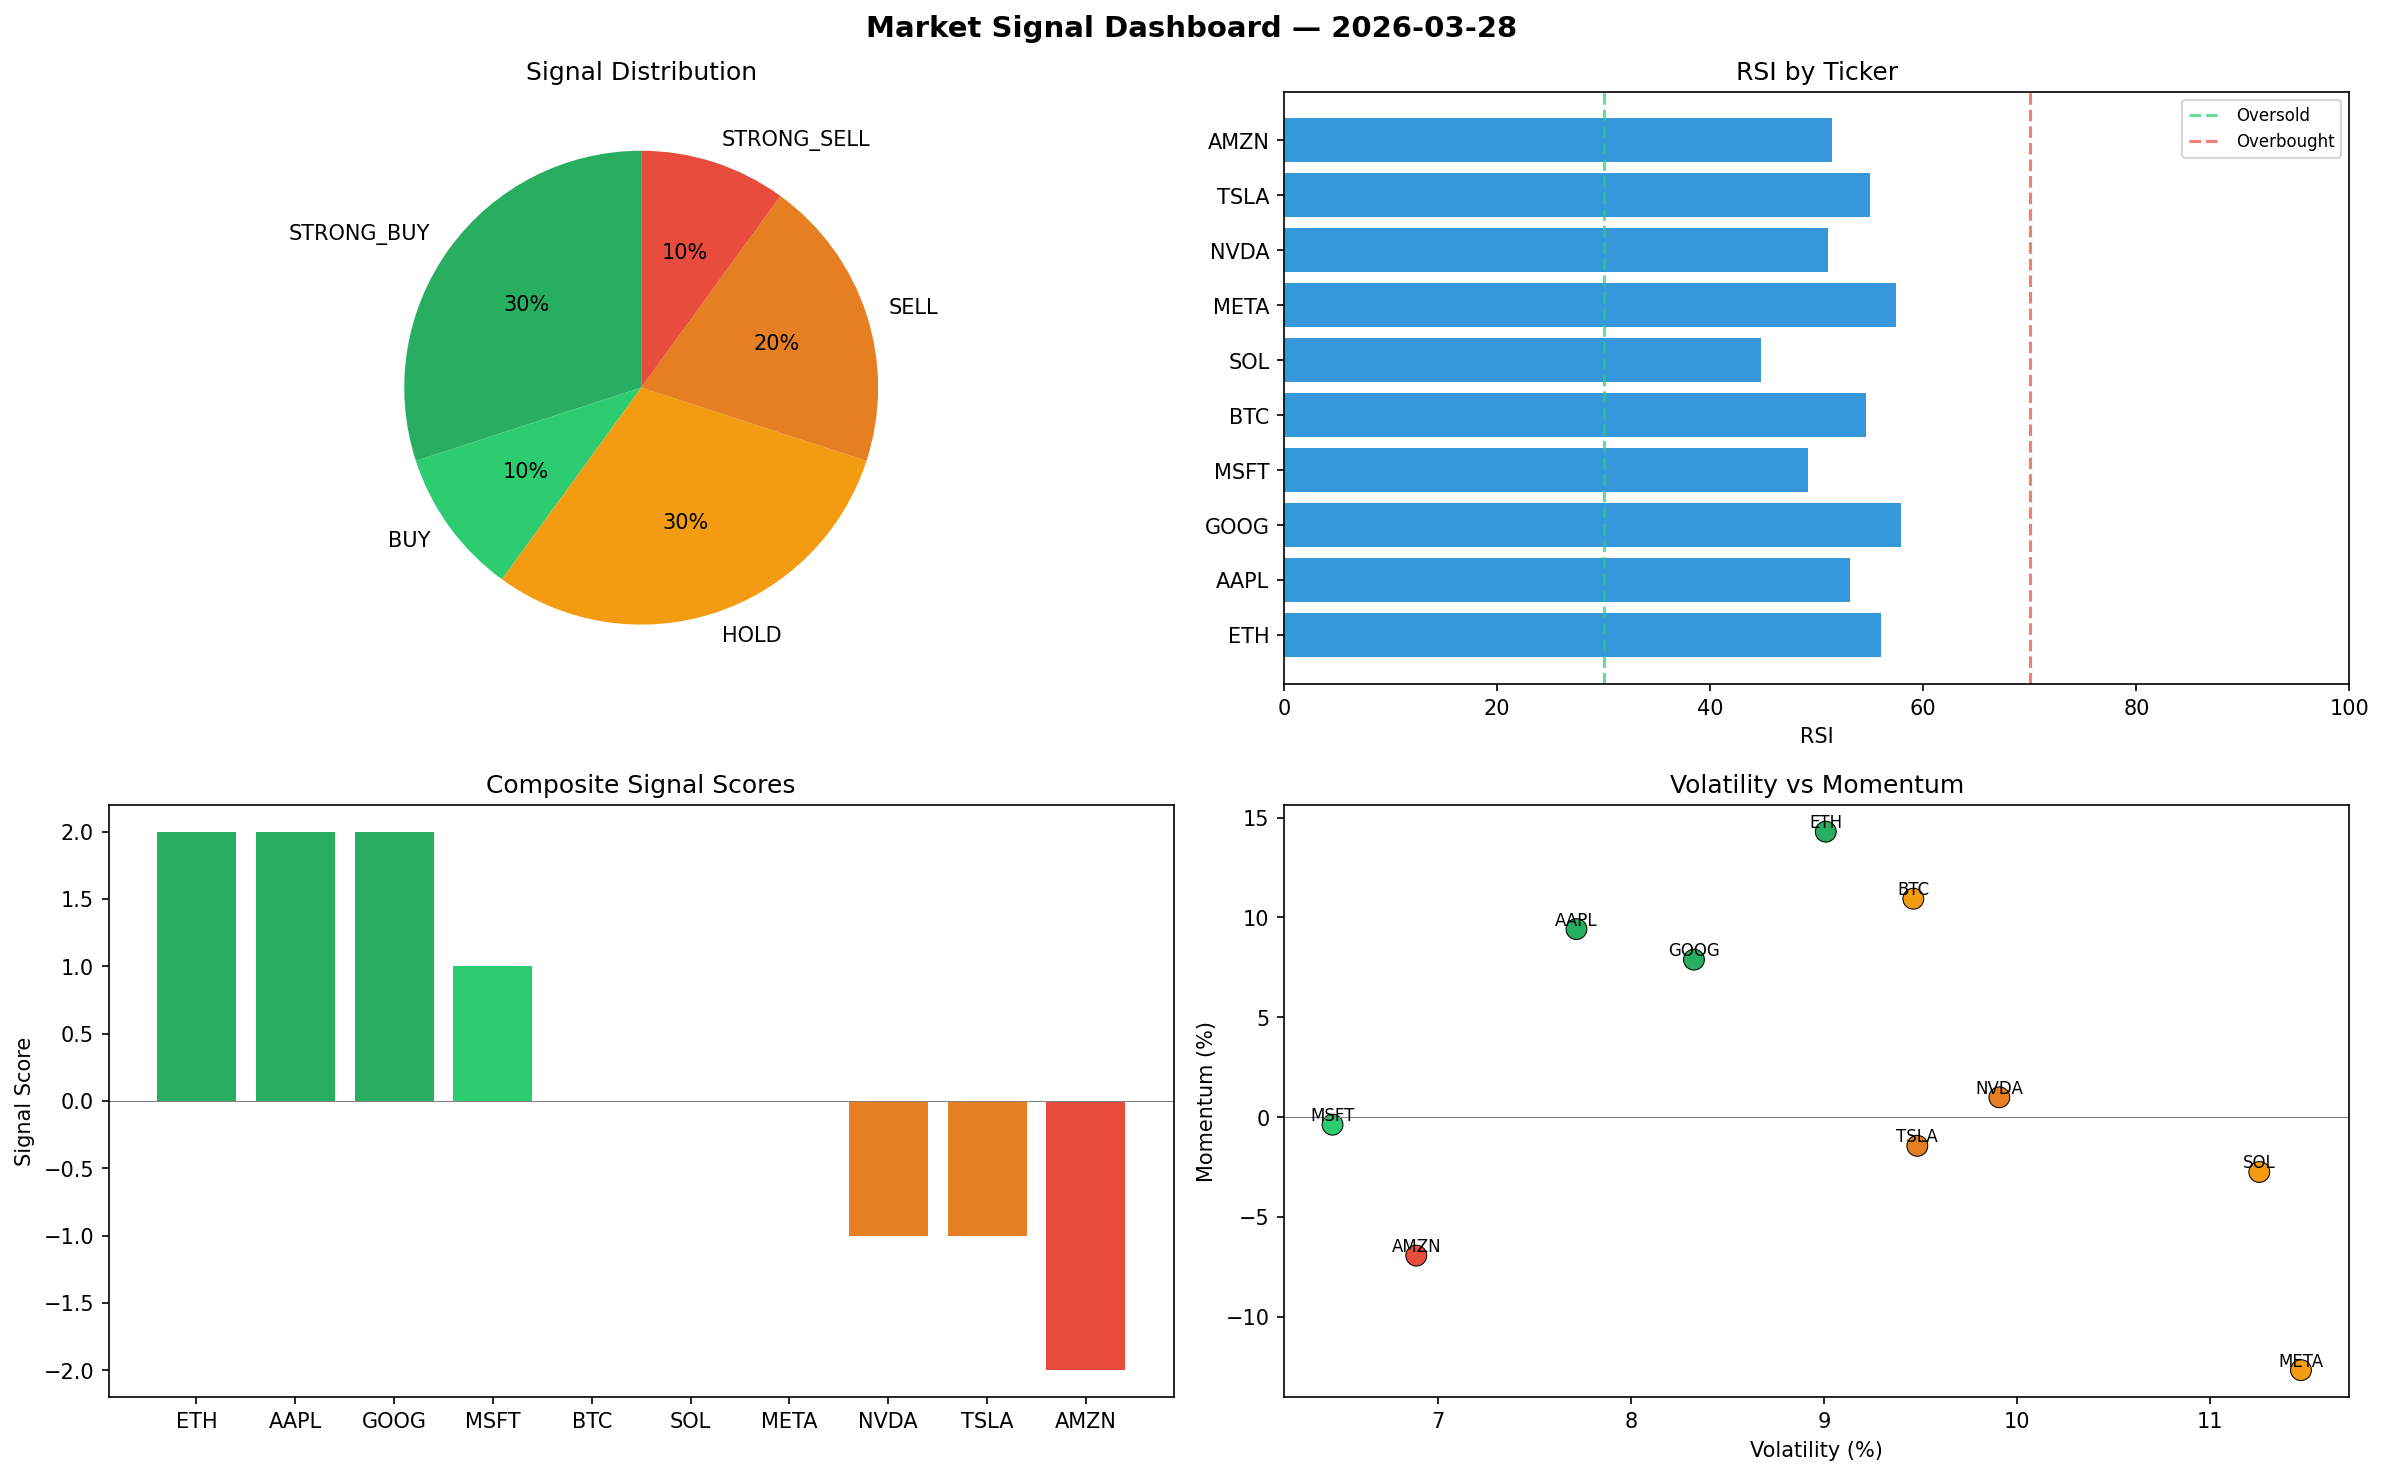
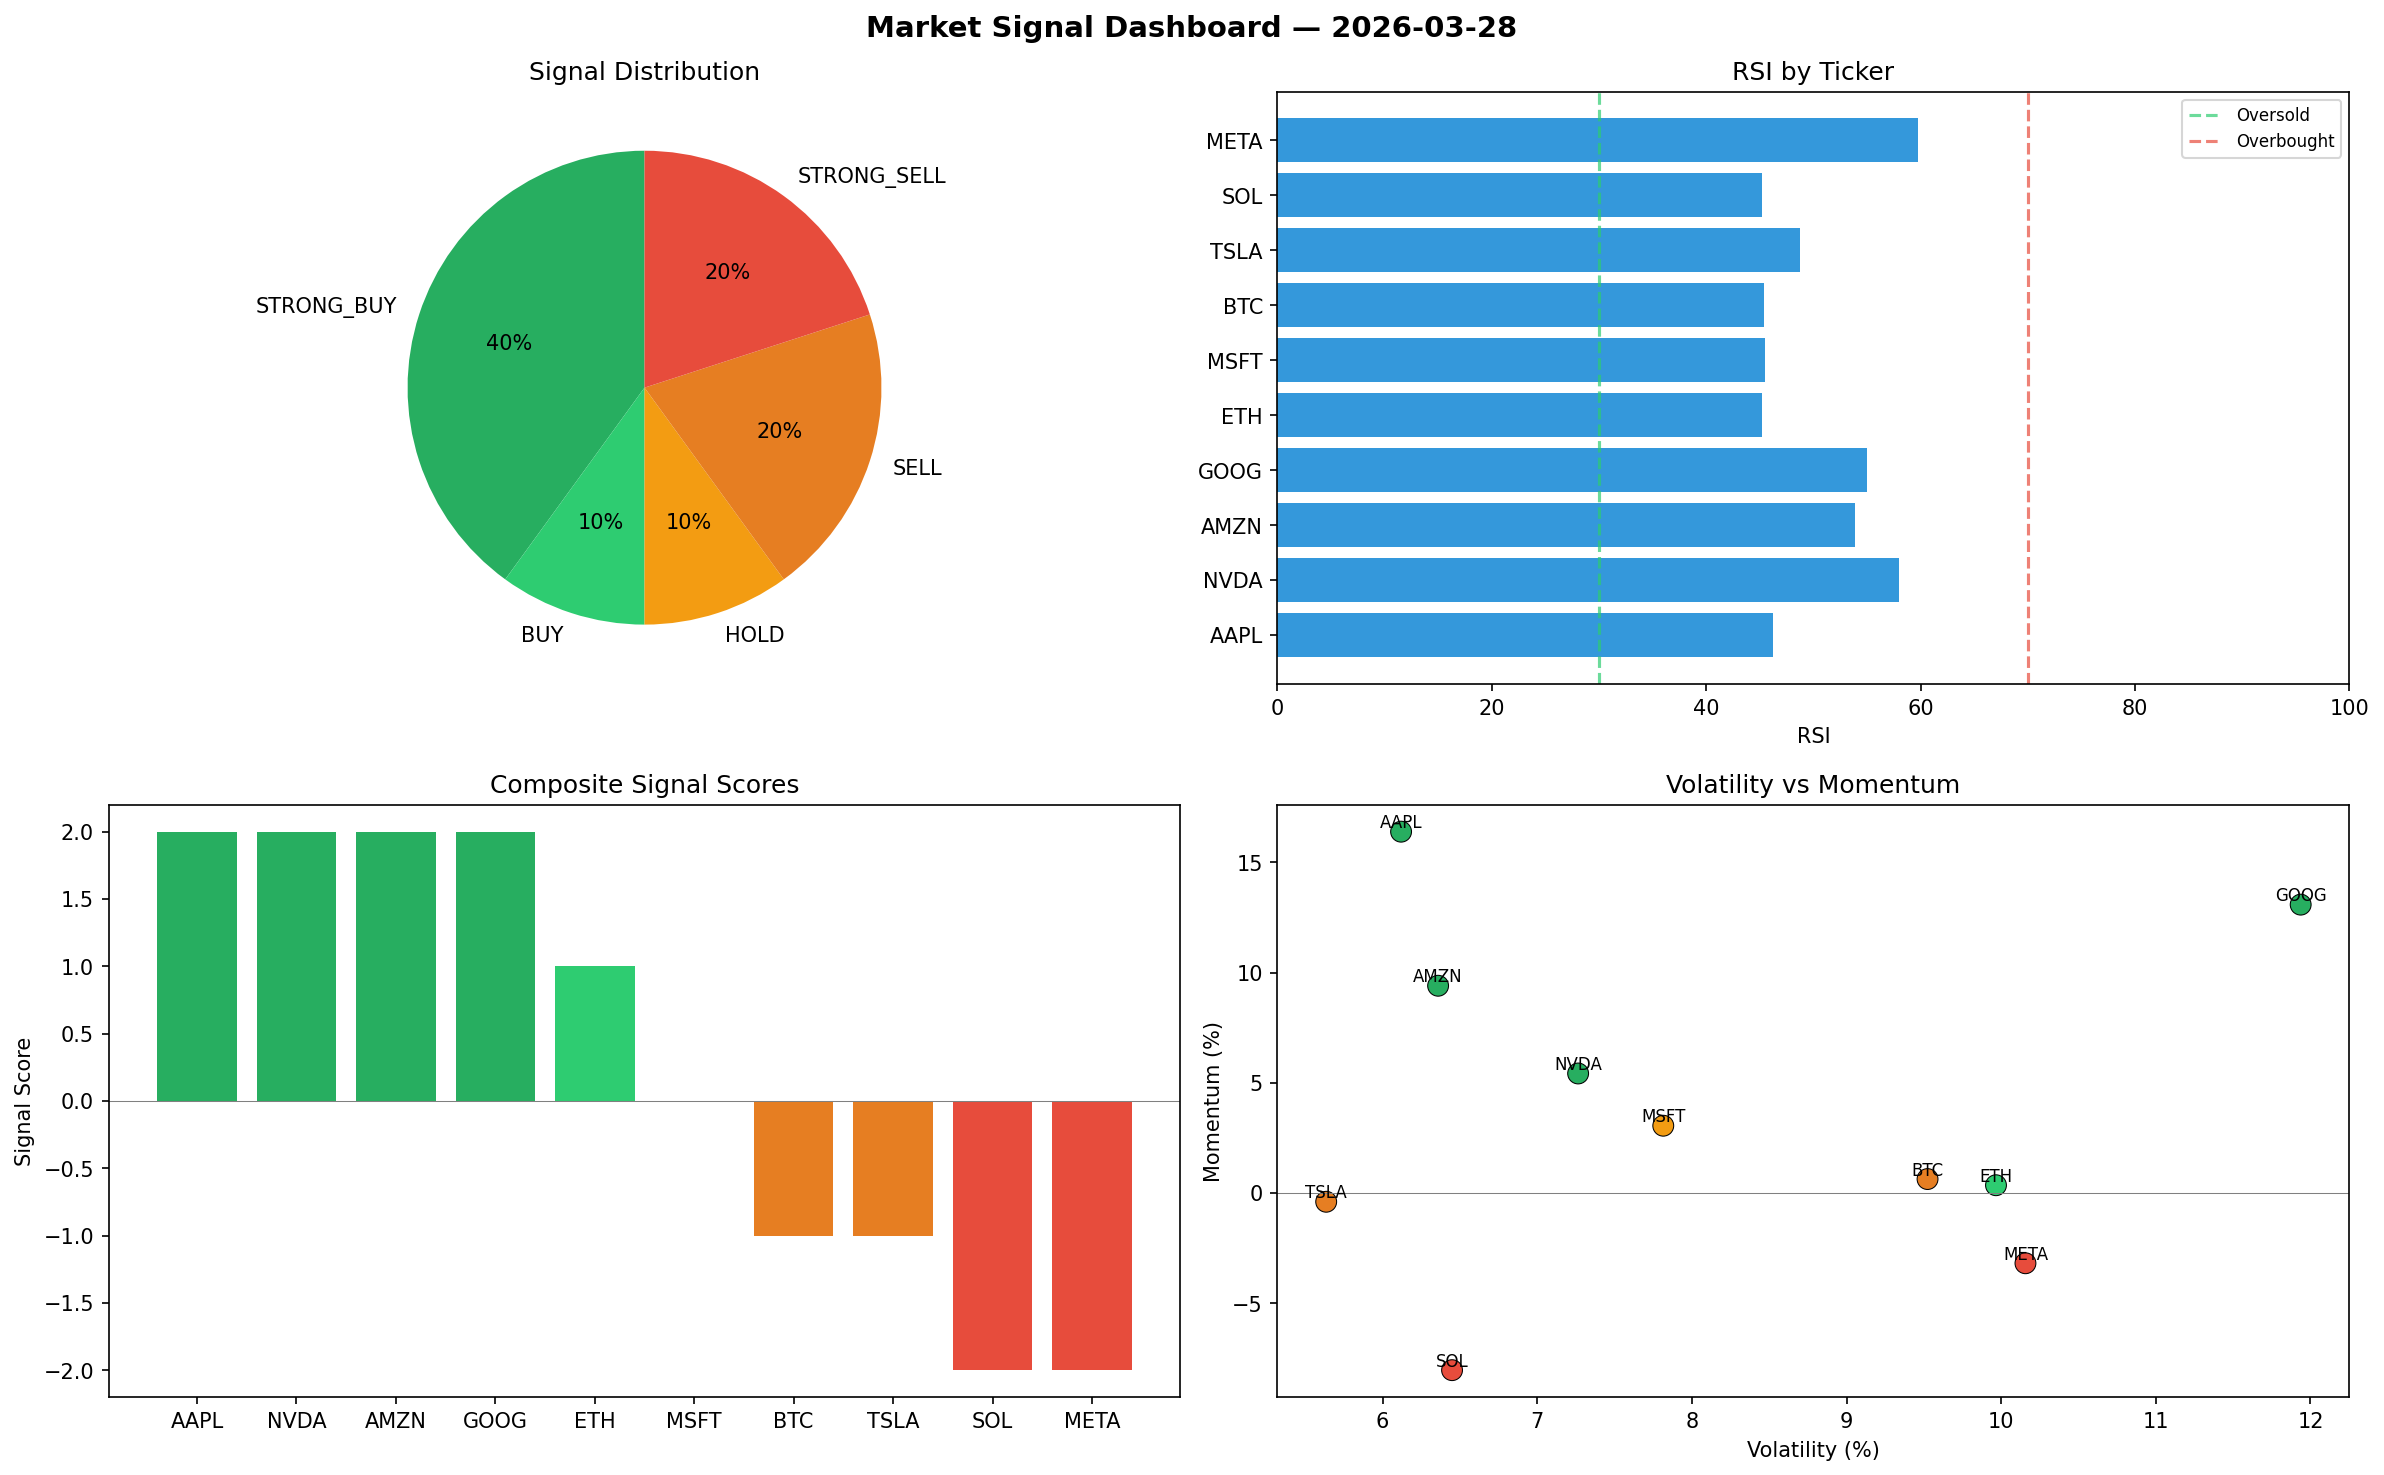
automated-bots: market signals 2026-03-28T09:02

diff --git a/logs/2026-03-28.md b/logs/2026-03-28.md
@@ -1,6 +1,6 @@
 # Market Signal Report — 2026-03-28
 
-**Run ID:** `4e4dc68acc` | **Buy:** 4 | **Sell:** 3 | **Hold:** 3
+**Run ID:** `d121d8278a` | **Buy:** 5 | **Sell:** 4 | **Hold:** 1
 
 ![Dashboard](2026-03-28_dashboard.png)
 
@@ -8,28 +8,28 @@
 
 | Ticker | Price | Signal | Score | RSI | Momentum | Confidence |
 |--------|-------|--------|-------|-----|----------|------------|
-| ETH | $1452.72 | **STRONG_BUY** | 2 | 56.05 | 0.143 | 0.5 |
-| AAPL | $4169.76 | **STRONG_BUY** | 2 | 53.13 | 0.0942 | 0.5 |
-| GOOG | $4146.51 | **STRONG_BUY** | 2 | 57.88 | 0.0789 | 0.5 |
-| MSFT | $3678.61 | **BUY** | 1 | 49.18 | -0.0038 | 0.25 |
-| BTC | $1741.8 | **HOLD** | 0 | 54.59 | 0.1094 | 0.0 |
-| SOL | $2121.45 | **HOLD** | 0 | 44.8 | -0.0275 | 0.0 |
-| META | $2141.77 | **HOLD** | 0 | 57.48 | -0.1268 | 0.0 |
-| NVDA | $470.79 | **SELL** | -1 | 51.07 | 0.0099 | 0.25 |
-| TSLA | $3802.78 | **SELL** | -1 | 54.98 | -0.0144 | 0.25 |
-| AMZN | $3990.1 | **STRONG_SELL** | -2 | 51.42 | -0.0694 | 0.5 |
+| AAPL | $3118.21 | **STRONG_BUY** | 2 | 46.27 | 0.1639 | 0.5 |
+| NVDA | $2809.66 | **STRONG_BUY** | 2 | 57.96 | 0.0542 | 0.5 |
+| AMZN | $1819.05 | **STRONG_BUY** | 2 | 53.92 | 0.094 | 0.5 |
+| GOOG | $4208.46 | **STRONG_BUY** | 2 | 55.03 | 0.1308 | 0.5 |
+| ETH | $2444.73 | **BUY** | 1 | 45.22 | 0.0035 | 0.25 |
+| MSFT | $1629.32 | **HOLD** | 0 | 45.45 | 0.0305 | 0.0 |
+| BTC | $3872.78 | **SELL** | -1 | 45.35 | 0.0063 | 0.25 |
+| TSLA | $1651.88 | **SELL** | -1 | 48.78 | -0.004 | 0.25 |
+| SOL | $2976.78 | **STRONG_SELL** | -2 | 45.16 | -0.0804 | 0.5 |
+| META | $258.79 | **STRONG_SELL** | -2 | 59.75 | -0.0319 | 0.5 |
 
 ## Delta vs Yesterday
 
 | Ticker | Today | Yesterday | Price Change | Signal Changed |
 |--------|-------|-----------|-------------|----------------|
-| ETH | STRONG_BUY | STRONG_SELL | 📈 156.84% | ⚠ YES |
-| AAPL | STRONG_BUY | STRONG_BUY | 📈 942.47% | — |
-| GOOG | STRONG_BUY | STRONG_BUY | 📈 68.76% | — |
-| MSFT | BUY | STRONG_BUY | 📈 48.48% | ⚠ YES |
-| BTC | HOLD | HOLD | 📈 512.3% | — |
-| SOL | HOLD | SELL | 📈 37.33% | ⚠ YES |
-| META | HOLD | BUY | 📈 92.66% | ⚠ YES |
-| NVDA | SELL | STRONG_SELL | 📉 -86.56% | ⚠ YES |
-| TSLA | SELL | SELL | 📈 7.79% | — |
-| AMZN | STRONG_SELL | STRONG_BUY | 📉 -24.33% | ⚠ YES |
+| AAPL | STRONG_BUY | STRONG_BUY | 📈 679.57% | — |
+| NVDA | STRONG_BUY | STRONG_SELL | 📉 -19.82% | ⚠ YES |
+| AMZN | STRONG_BUY | STRONG_BUY | 📉 -65.5% | — |
+| GOOG | STRONG_BUY | STRONG_BUY | 📈 71.29% | — |
+| ETH | BUY | STRONG_SELL | 📈 332.23% | ⚠ YES |
+| MSFT | HOLD | STRONG_BUY | 📉 -34.24% | ⚠ YES |
+| BTC | SELL | HOLD | 📈 1261.4% | ⚠ YES |
+| TSLA | SELL | SELL | 📉 -53.18% | — |
+| SOL | STRONG_SELL | SELL | 📈 92.7% | ⚠ YES |
+| META | STRONG_SELL | BUY | 📉 -76.72% | ⚠ YES |
